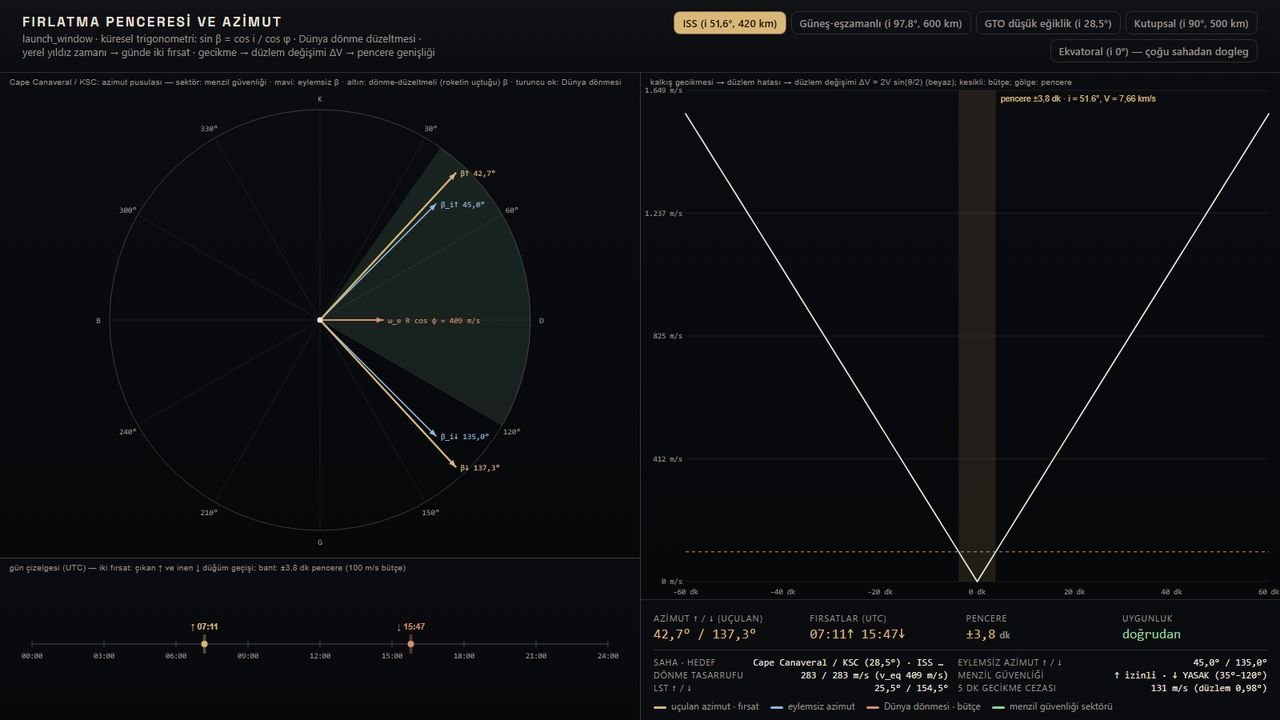
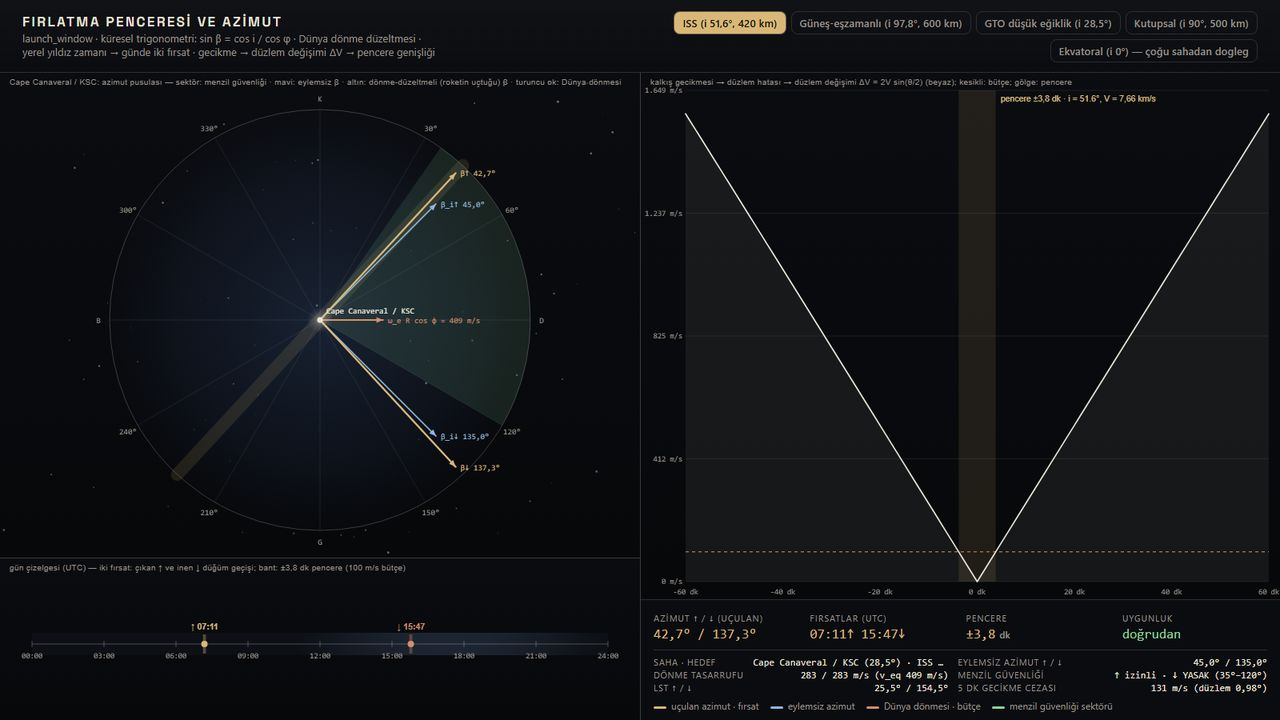
Sahne görselleri: 24 laboratuvar 'çizgi' düzeyinden sahne düzeyine — lab-scene.mjs (gezegen diski + terminatör + limb + atmosfer, Güneş koronası, yıldız alanı, ışıma, hız/ısı rampalı çizgiler, bölge/gölge bandı) ve lab-three.mjs (fresnel atmosfer, kamera-ölçekli ışıma, uzak Güneş, dokulu Dünya, yıld

Changed region(s): [[0.125, 0.275, 0.3438, 0.6722], [0.2812, 0.8556, 0.4375, 0.9167], [0.3438, 0.2139, 0.375, 0.275]]

diff --git a/skills/design-scientific-motion/references/scene-blocks.md b/skills/design-scientific-motion/references/scene-blocks.md
@@ -30,6 +30,7 @@ and a matching family of ML scenes. Quality over count. Every block obeys
 | `eclipse_geometry` | **wave 2** | Eclipse / occultation / visibility from geometry only: conical shadow function with finite Sun disk (umbra/penumbra entry & exit by bisection), β angle and cylindrical limit, ground-station AOS/LOS on a rotating Earth, sensor (star) and relay-link occultation via segment–sphere tests with an atmosphere tangent threshold; 3D shadow cones + event bands + ν(t)/ε(t) |
 | `conjunction_covariance` | **wave 2** | Conjunction assessment where the uncertainty geometry is the content: TCA found by range minimisation, encounter frame ⊥ v_rel, RTN covariances rotated, summed and projected to the encounter plane (1/2/3σ ellipses, Mahalanobis), 2D collision probability over the hard-body disc (short-encounter Gaussian model, limits validated), dilution curve P_c(k), decision threshold |
 | `free_return` | **wave 2** | Lunar free-return trajectory in the Earth–Moon CR3BP: LEO departure with TLI ΔV and phase angle, adaptive-step propagation, perilune and return perigee measured, (ΔV, θ₀) scan plus per-row bisection to the 100 km return-perigee solutions, rotating and inertial views, corridor sensitivity (0.3° → > 500 km); Apollo-scale numbers validated |
+| `core/lab-three.mjs` · `core/lab-scene.mjs` | **shared** | Scene imagery helpers used by every wave-2 lab: 2D `planet()` (sun-offset shading, night side, lit limb, atmosphere halo, rings), `sun()`, `starfield()`, `glow()`, `colorLine()` with `heat`/`speed`/`cold` ramps, `band()`, `shadowBand()`; three.js `atmosphereShell()` (fresnel), `glowSprite()`/`fitGlow()`, `sunGlow()`, `addEarth()` (textured + atmosphere), `starfield()`. Rule: every helper encodes a phenomenon (terminator from the Sun vector, colour from a physical quantity) — never decor |
 | `soi_explorer` | **wave 2** | Sphere of influence explorer: Laplace r_SOI = a(m/M)^(2/5) and Hill sphere computed from GM/a and drawn to scale in three.js (textured Earth/Moon, fresnel shells, dashed Hill ring, distance-scaled glow points), park-orbit departure hyperbola to a target v∞ (progressive Line2, probe on the timeline), frame hand-off pulse at the SOI shell, patched-conic residual |v(r_SOI)| − v∞, log–log Laplace acceleration-ratio panel with numerical crossing (≈ 0.87 r_SOI), planetary SOI scale bars; literature radii, energy and monotonicity validated |
 | `launch_window` | **wave 2** | Launch window and azimuth geometry: inertial azimuth from sin β = cos i / cos φ (ascending/descending), Earth-rotation correction and ΔV saving, local-sidereal-time launch opportunities (two per day, UTC), range-safety sector check, delay → nodal shift → plane-change ΔV → window width for a ΔV budget; infeasible (i < φ) cases flagged as dogleg; Vallado example values validated |
 | `geo_stationkeeping` | **wave 2** | GEO station-keeping budget: east–west drift from the real EGM96 C̄22/S̄22 (gravity_field) with equilibrium longitudes found as roots (stable 75.1°E / 104.9°W), annual ΔV(λ), libration period and free-drift trajectory; north–south from a one-year Moon+Sun RK4 propagation (orbit_perturbations) → inclination-vector trace, Δi ≈ 0.86°/yr, ΔV ≈ 46 m/s/yr; SRP eccentricity circle; lifetime propellant chemical vs electric |

diff --git a/README.md b/README.md
@@ -198,7 +198,7 @@ Manim ayarında, blok blok kurulabilir sahneler; program ve donmuş API (eksen s
 
 ### Astrodinamik ve GNC laboratuvarları — 2. dalga (24 preset)
 
-Her biri saf bir model modülü (`*-model.mjs` ya da `presets/core/astro-*.mjs`), sahne, deterministik URL (`?t=` / `export=1`), `motion-manifest.json` ve `skills/design-scientific-motion/references/<ad>.md` ile gelir; hepsi `node scripts/validate-astro.mjs` ile bağımsız sayısal denetimden geçer (CI adımı). Hiçbir sayı elle yerleştirilmez; model, varsayım ve sınırlar sahnede yazılıdır. Ortak sunum katmanı `presets/core/lab-scene.{css,mjs}`: kahraman HUD, giriş kaskadı (`Entrance`), tuval yardımcıları, tipografi.
+Her biri saf bir model modülü (`*-model.mjs` ya da `presets/core/astro-*.mjs`), sahne, deterministik URL (`?t=` / `export=1`), `motion-manifest.json` ve `skills/design-scientific-motion/references/<ad>.md` ile gelir; hepsi `node scripts/validate-astro.mjs` ile bağımsız sayısal denetimden geçer (CI adımı). Hiçbir sayı elle yerleştirilmez; model, varsayım ve sınırlar sahnede yazılıdır. Ortak sunum katmanı `presets/core/lab-scene.{css,mjs}`: kahraman HUD, giriş kaskadı (`Entrance`), tuval yardımcıları, tipografi; sahne görselleri (gezegen diski ve terminatör, Güneş koronası, yıldız alanı, hız/ısı ile renklenen çizgiler, gölge bandı) ve three.js için `presets/core/lab-three.mjs` (fresnel atmosfer, kamera-ölçekli ışıma noktaları, uzak Güneş ışıması, dokulu Dünya). Her görsel öğe bir fenomeni kodlar: terminatör Güneş yönünden, plazma kılıfı ısı akısından, hiperbol rengi hızdan türer.
 
 | Klasör | İçerik |
 |---|---|
@@ -302,7 +302,7 @@ node scripts/check-syntax.mjs && node scripts/check-imports.mjs && node scripts/
 
 ```
 presets/
-  core/                 astro-*.mjs ortak çözücüler (US76, RK4, Lambert, CR3BP…) + lab-scene.{css,mjs} sunum katmanı
+  core/                 astro-*.mjs ortak çözücüler (US76, RK4, Lambert, CR3BP…) + lab-scene.{css,mjs} (2B sahne: gezegen diski, terminatör, Güneş, yıldız alanı, ısı/hız rampaları) + lab-three.mjs (three.js: fresnel atmosfer, ışıma noktaları, uzak Güneş, dokulu Dünya)
   <preset>/             index.html · <ad>.mjs sahne · <ad>-model.mjs saf model · motion-manifest.json
   moon_advanced/vendor/ three.js ve eklentileri (tek kopya; importmap "three" buraya bağlanır)
   color_themes/         palet kütüphanesi, tipografi, kart/tablo bileşenleri
